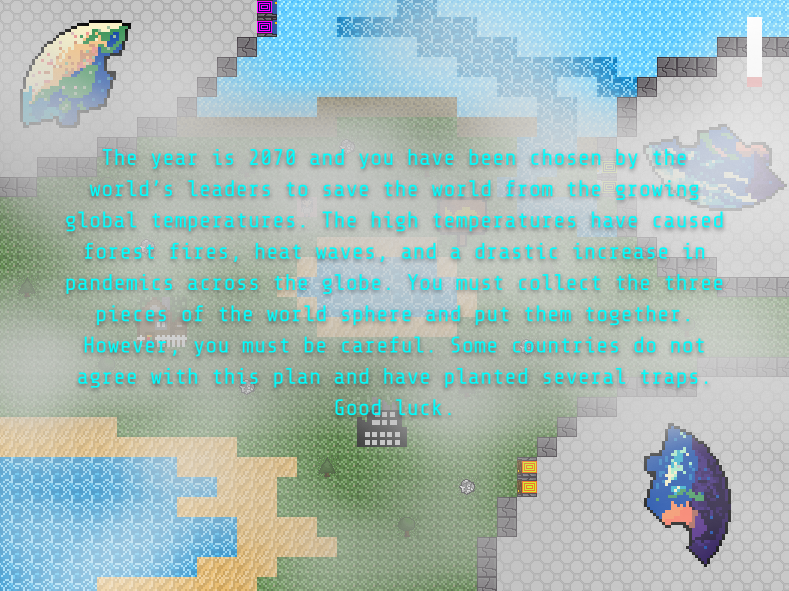
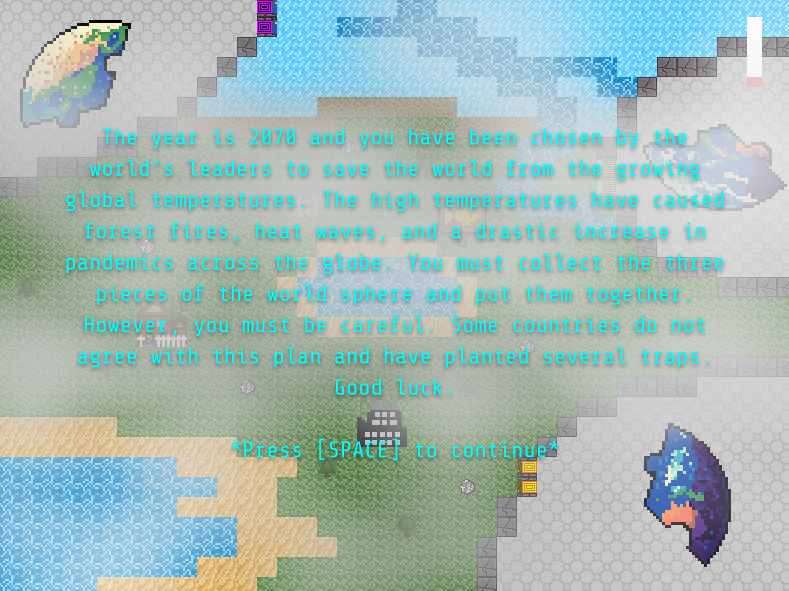
Lore

Changed region(s): [[0.0608, 0.2132, 0.943, 0.7005], [0.2738, 0.731, 0.73, 0.7919]]

diff --git a/main.py b/main.py
@@ -122,14 +122,23 @@ class Game:
                 self.running = False
             if self.state == "start_screen":
                 if event.type == pygame.KEYDOWN and event.key == pygame.K_SPACE:
+                    self.state = "lore_screen"
+            elif self.state == "lore_screen":
+                if event.type == pygame.KEYDOWN and event.key == pygame.K_SPACE:
                     self.state = "main_game"  # Transition to the main game when space is pressed
-            if self.state == "end_screen":
+            elif self.state == "end_screen":
                 if event.type == pygame.KEYDOWN and event.key == pygame.K_SPACE:
                     self.health_bar_height = 10
                     self.state = "main_game"
 
     def draw_start_screen(self):
         game_over_image = pygame.image.load("assets/images/start.png")
+        game_over_image = pygame.transform.scale(game_over_image, (WIN_WIDTH, WIN_HEIGHT))
+        self.screen.blit(game_over_image, (0, 0))
+        pygame.display.flip()
+
+    def draw_lore_screen(self):
+        game_over_image = pygame.image.load("assets/images/lore.png")
         game_over_image = pygame.transform.scale(game_over_image, (WIN_WIDTH, WIN_HEIGHT))
         self.screen.blit(game_over_image, (0, 0))
         pygame.display.flip()
@@ -161,6 +170,8 @@ class Game:
             self.events()
             if self.state == "start_screen":
                 self.draw_start_screen()  # Show start screen
+            elif self.state == "lore_screen":
+                self.draw_lore_screen()
             elif self.state == "main_game":
                 self.update()
                 self.draw()

diff --git a/sprites.py b/sprites.py
@@ -467,8 +467,8 @@ class Player(pygame.sprite.Sprite):
     
     def display_winner_screen(self):
         font = pygame.font.SysFont('Arial', 80)
-        text = font.render("You Won!", True, BLACK)
-        self.game.screen.blit(text, (WIDTH // 2 - text.get_width() // 2, HEIGHT // 2 - text.get_height() // 2))
+        # text = font.render("You Won!", True, BLACK)
+        # self.game.screen.blit(text, (WIDTH // 2 - text.get_width() // 2, HEIGHT // 2 - text.get_height() // 2))
 
         # Update display and wait for 3 seconds
         pygame.display.flip()
